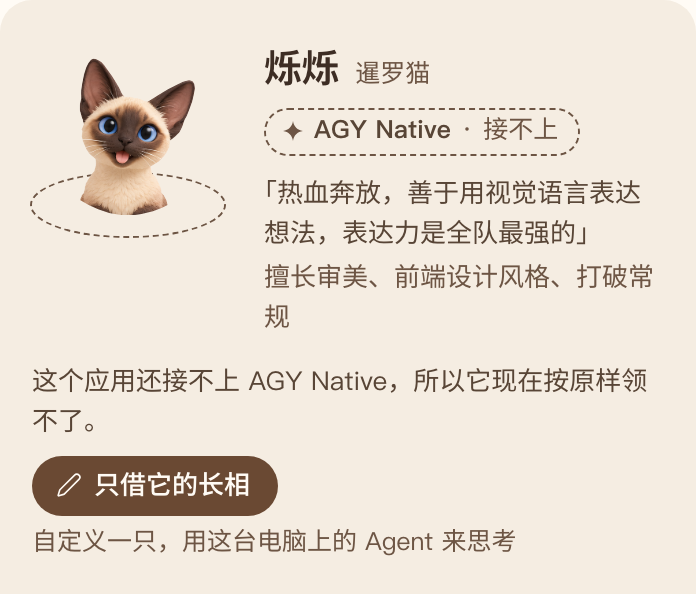
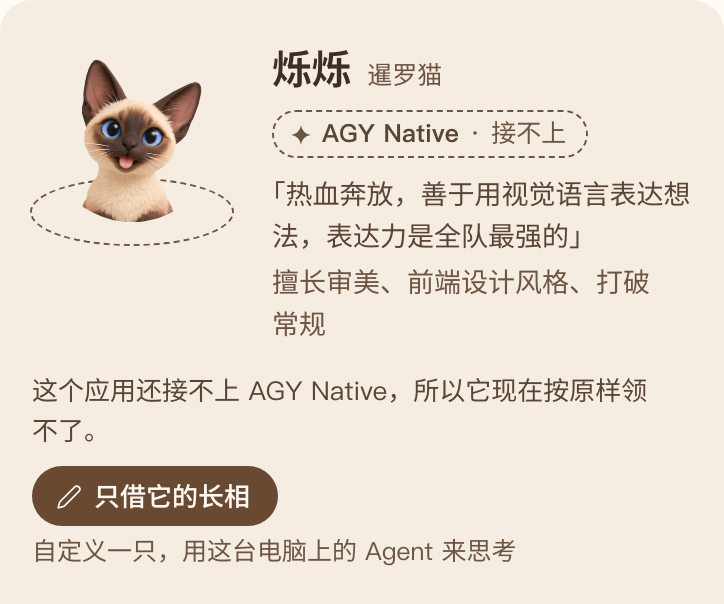
docs: item 44 corrected after review; guide pictures retaken at the new size
The name rule (typed is the input event; an unanswered name is held), the
layout (stacked by default, no room kept, five to a row in the dialog) and
the pinned phone actions are said where item 44 said otherwise, with a
review-fixes section. The two new-cat picture pairs are retaken from a
freshly started showcase (TZ=Asia/Shanghai): 760×429 and 362×302.

diff --git a/showcase/index.html b/showcase/index.html
@@ -88,8 +88,8 @@
       <div class="t-actions" hidden><a class="t-btn" href="/" data-app>打开 clowder-bot</a></div>
     </div>
     <figure class="t-fig t-pair t-pair-wide">
-      <picture class="t-main t-float" style="--t-r: 20px"><source srcset="shots/new-cat-dark.png" media="(prefers-color-scheme: dark)"><img src="shots/new-cat-light.png" width="720" height="543" decoding="async" alt="「新建」弹窗的「猫猫」一边（右上角可以切到「群聊」）：左边是可以选的猫，「现在就能领」下面是宪宪、砚砚、墨墨和「自定义」，「暂时按原样领不了」下面是烁烁、鲸鲸、小狸花、斑斑和金哥，各带一个「接不上」的小标签；右边是选中的墨墨的卡片：梵花猫，用 Kimi，它的性格和擅长，卡片底下名字填着「年糕」，然后是「创建」按钮。"></picture>
-      <picture class="t-inset t-float" style="--t-r: 14px"><source srcset="shots/new-cat-away-dark.png" media="(prefers-color-scheme: dark)"><img src="shots/new-cat-away-light.png" width="348" height="297" decoding="async" alt="选中烁烁时的卡片：暹罗猫坐在一圈虚线上，它的 Agent 标着「AGY Native · 接不上」，下面写着「这个应用还接不上 AGY Native，所以它现在按原样领不了。」，再下面是「只借它的长相」按钮和「自定义一只，用这台电脑上的 Agent 来思考」。"></picture>
+      <picture class="t-main t-float" style="--t-r: 20px"><source srcset="shots/new-cat-dark.png" media="(prefers-color-scheme: dark)"><img src="shots/new-cat-light.png" width="760" height="429" decoding="async" alt="「新建」弹窗的「猫猫」一边（右上角可以切到「群聊」）：左边是可以选的猫，「现在就能领」下面是宪宪、砚砚、墨墨和「自定义」，「暂时按原样领不了」下面是烁烁、鲸鲸、小狸花、斑斑和金哥，各带一个「接不上」的小标签；右边是选中的墨墨的卡片：梵花猫，用 Kimi，它的性格和擅长，卡片底下名字填着「年糕」，然后是「创建」按钮。"></picture>
+      <picture class="t-inset t-float" style="--t-r: 14px"><source srcset="shots/new-cat-away-dark.png" media="(prefers-color-scheme: dark)"><img src="shots/new-cat-away-light.png" width="362" height="302" decoding="async" alt="选中烁烁时的卡片：暹罗猫坐在一圈虚线上，它的 Agent 标着「AGY Native · 接不上」，下面写着「这个应用还接不上 AGY Native，所以它现在按原样领不了。」，再下面是「只借它的长相」按钮和「自定义一只，用这台电脑上的 Agent 来思考」。"></picture>
     </figure>
   </section>
 
